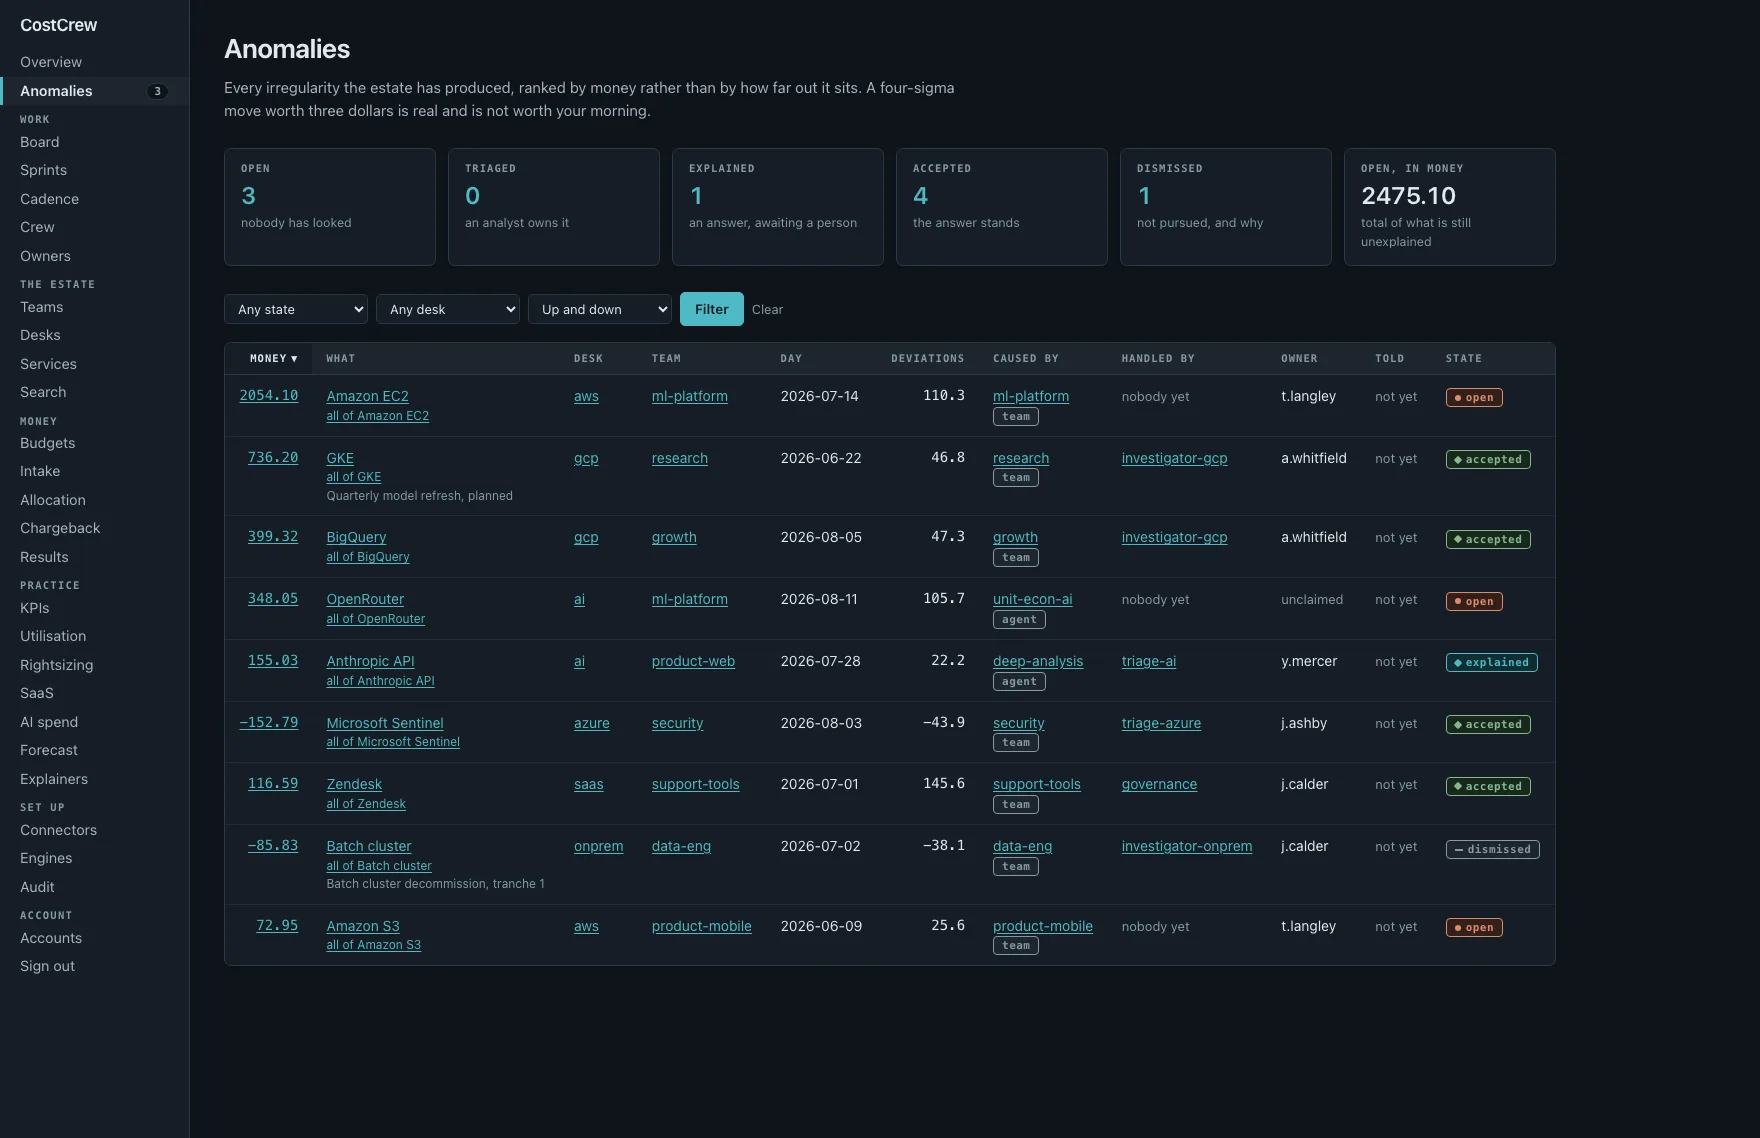
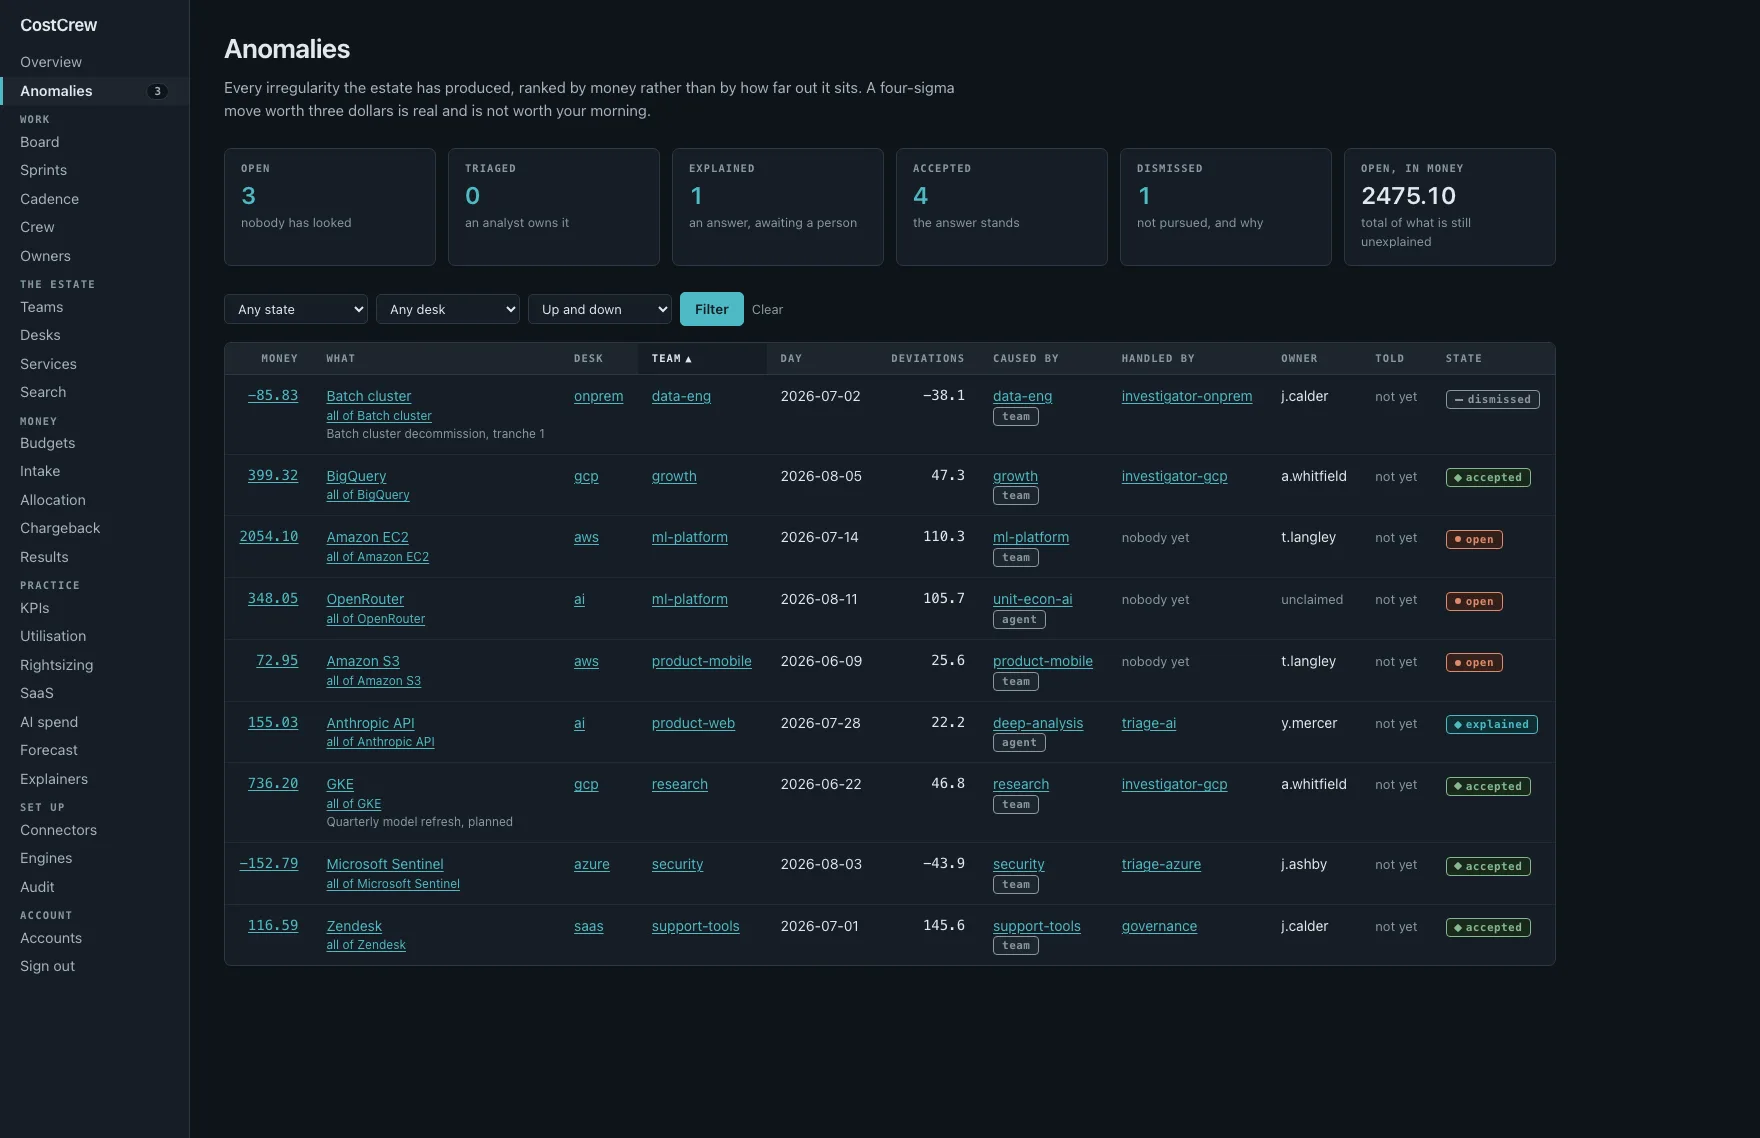
site(costcrew): the KPI and connectors frames carry a real estate, and the two anomaly frames differ

diff --git a/services/costcrew.html b/services/costcrew.html
@@ -187,11 +187,11 @@
             <figcaption><b>Results</b>Found, never saved. 1,254.35 found since the board opened against 3,871.35 the crew cost, and the word is load-bearing: nothing is saved until somebody acts.</figcaption>
           </figure>
           <figure class="gxc-teaser">
-            <img src="../assets/shots/costcrew/cc-kpis.webp?v=e04" alt="CostCrew KPI library" width="1760" height="1138" loading="lazy">
-            <figcaption><b>KPIs</b>Nine report a number and three refuse. The refusals are the important part: a library where everything reports is one where several of the figures are invented.</figcaption>
+            <img src="../assets/shots/costcrew/cc-kpis.webp?v=e05" alt="CostCrew KPI library" width="1760" height="1138" loading="lazy">
+            <figcaption><b>KPIs</b>9 report a number, 3 refuse, 4 meet their target. The refusals are the important part: a library where everything reports is one where several of the figures are invented.</figcaption>
           </figure>
           <figure class="gxc-teaser">
-            <img src="../assets/shots/costcrew/cc-connectors.webp?v=e04" alt="CostCrew connectors" width="1760" height="1138" loading="lazy">
+            <img src="../assets/shots/costcrew/cc-connectors.webp?v=e05" alt="CostCrew connectors" width="1760" height="1138" loading="lazy">
             <figcaption><b>Connectors</b>Every entry says which table it fills, what it needs, and whether running it costs money, because that last one is what decides whether an integration is a good idea.</figcaption>
           </figure>
           <figure class="gxc-teaser">
@@ -215,8 +215,8 @@
             <figcaption><b>The plan</b>The deterministic sprint plan, and the option to ask the supervisor's model for a second opinion.</figcaption>
           </figure>
           <figure class="gxc-teaser">
-            <img src="../assets/shots/costcrew/cc-anomalies-owner.webp?v=e04" alt="CostCrew anomalies with owner" width="1760" height="1138" loading="lazy">
-            <figcaption><b>Owner and told</b>The anomaly queue names the owner it told, and when.</figcaption>
+            <img src="../assets/shots/costcrew/cc-anomalies-owner.webp?v=e05" alt="CostCrew anomalies with owner" width="1760" height="1138" loading="lazy">
+            <figcaption><b>Owner and told</b>Every finding carries the owner it belongs to, read from the team that pays for it or from the analyst that opened it. Telling that owner is its own logged step, so on a fresh install every row still reads not yet.</figcaption>
           </figure>
       </div>
       <div class="gxc-note">seventeen frames, one fresh installation, click any still to open it full screen</div>
